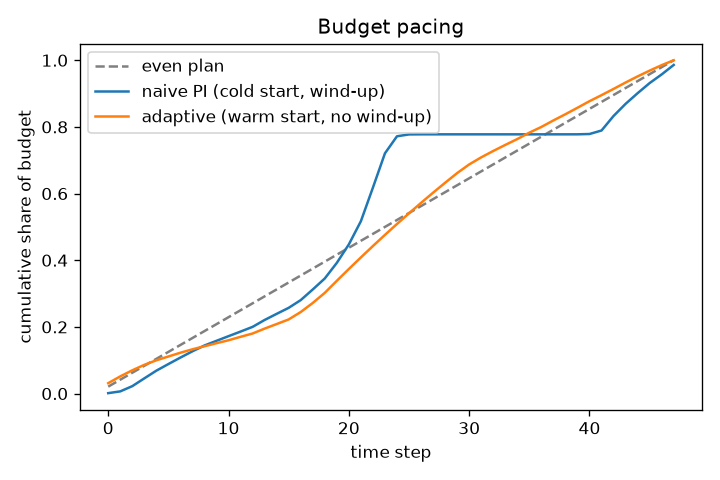
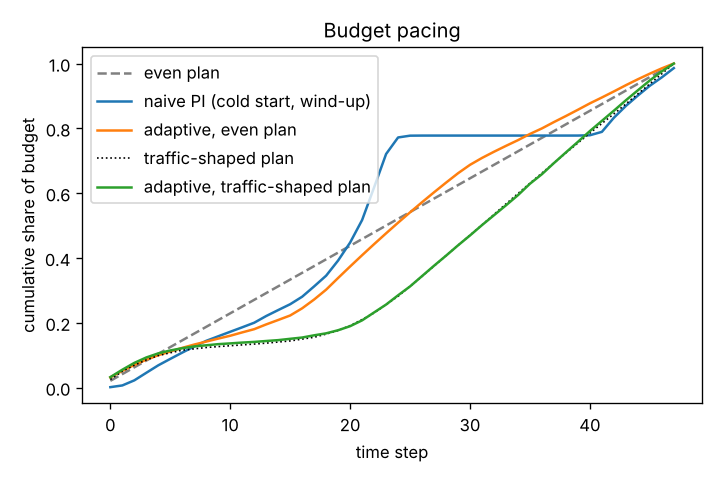
Pacing: traffic-shaped spend plan closes the gap to the hindsight multiplier
adaptive_pacing() takes an optional per-step plan; the target becomes the
remaining budget times the step's share of the remaining plan (an even
plan reproduces the old behaviour exactly). spend_plan() builds the plan
from past data only: the time-of-day profile of logged market cost before
the test window, integrated over each step. `make bid` passes the raw
parquet as --history.

On 2M Attribution rows at a 20% budget, value goes from 431 (even plan,
86.9% of the hindsight constant) to 500 (100.6%). Using the plan the
hindsight constant actually followed gives 100.0%, so the remaining gap
was entirely the plan's shape. The gain holds at 10/30/50% budgets
(98.6-100.3%). Shaping the plan from the validation window alone failed
(49%): on this sample it spans only about six afternoon hours.

Other bidding numbers reproduce unchanged.

Claude-Session: https://claude.ai/code/session_0191hE9CU4T9gEDcPDXiWNcw

diff --git a/src/adsrank/run_bidding.py b/src/adsrank/run_bidding.py
@@ -16,6 +16,10 @@ Experiments:
        naive PI     : cold start (alpha far too low), integral term -> wind-up
        adaptive     : warm start from the validation window, target = remaining budget /
                       remaining steps, capped proportional updates (no wind-up)
+       adaptive_traffic_plan : same, but each step's share of the budget follows the
+                      time-of-day spend profile of the validation window
+       adaptive_hindsight_plan : same, with the plan taken from the test window itself
+                      (a ceiling, not a deployable policy)
 
 usage: python -m adsrank.run_bidding --preds data/preds_test.parquet
 """
@@ -30,7 +34,9 @@ import matplotlib.pyplot as plt  # noqa: E402
 import numpy as np  # noqa: E402
 import pandas as pd  # noqa: E402
 
-from adsrank.bidding import adaptive_pacing, alpha_for_roi, alpha_for_spend, pid_pacing, replay  # noqa: E402
+from adsrank.bidding import (  # noqa: E402
+    _time_steps, adaptive_pacing, alpha_for_roi, alpha_for_spend, pid_pacing, replay, spend_plan, step_edges,
+)
 
 
 def policies(d: pd.DataFrame, seed: int = 0) -> dict[str, np.ndarray]:
@@ -49,6 +55,8 @@ def main() -> None:
     a.add_argument("--preds", default="data/preds_test.parquet")
     a.add_argument("--budget-frac", type=float, default=0.2, help="budget as a fraction of total logged spend")
     a.add_argument("--target-roi", type=float, default=None, help="default: 1.5x the ROI of buying every impression")
+    a.add_argument("--history", default=None,
+                   help="raw Attribution parquet; rows before the test window shape the time-of-day spend plan")
     a.add_argument("--results", default="results")
     a = a.parse_args()
     out = Path(a.results)
@@ -93,7 +101,28 @@ def main() -> None:
         warm = "validation window"
     else:
         alpha0, warm = static["alpha"] * 0.1, "none (preds_valid.parquet missing)"
-    adaptive = adaptive_pacing(ev_cal, cost, attr, cpo, d.timestamp.to_numpy(), budget, alpha0, n_steps=n_steps)
+    ts = d.timestamp.to_numpy()
+    # traffic-shaped plan: time-of-day profile of logged traffic value (market cost) in all data
+    # before the test window. It needs at least a full day of history, which the validation
+    # window alone (a few hours on the 2M-row sample) does not have.
+    plan, plan_source = None, None
+    if a.history and Path(a.history).exists():
+        h = pd.read_parquet(a.history, columns=["timestamp", "cost"])
+        h = h[h.timestamp < ts.min()]
+        if len(h) and h.timestamp.max() - h.timestamp.min() >= 86400:
+            plan = spend_plan(h.timestamp.to_numpy(), h.cost.to_numpy(), step_edges(ts, n_steps))
+            plan_source = f"logged cost by hour of day, {(h.timestamp.max() - h.timestamp.min()) / 86400:.1f} days before test"
+    adaptive = adaptive_pacing(ev_cal, cost, attr, cpo, ts, budget, alpha0, n_steps=n_steps)
+    paced = {"naive_pi": naive, "adaptive": adaptive}
+    if plan is not None:
+        paced["adaptive_traffic_plan"] = adaptive_pacing(ev_cal, cost, attr, cpo, ts, budget, alpha0,
+                                                         n_steps=n_steps, plan=plan)
+    # ceiling: the plan a hindsight constant multiplier would have followed on the test window itself
+    srt = np.sort(ts)
+    hind_spend = np.where(ev_cal * static["alpha"] >= cost, cost, 0.0)[np.argsort(ts, kind="stable")]
+    hind_plan = np.bincount(_time_steps(srt, n_steps), weights=hind_spend, minlength=n_steps)
+    paced["adaptive_hindsight_plan"] = adaptive_pacing(ev_cal, cost, attr, cpo, ts, budget, alpha0,
+                                                       n_steps=n_steps, plan=hind_plan / hind_plan.sum())
 
     even = budget / n_steps
     def pace_summary(p):
@@ -103,11 +132,19 @@ def main() -> None:
                 "idle_steps": int((p.spend < 0.1 * even).sum()),
                 "value_vs_hindsight_static": float(p.value.sum() / static["value"])}
     report["pacing"] = {"warm_start": warm, "alpha0": alpha0, "hindsight_static_alpha": static["alpha"],
-                        "naive_pi": pace_summary(naive), "adaptive": pace_summary(adaptive)}
+                        **{k: pace_summary(p) for k, p in paced.items()}}
+    report["pacing"]["traffic_plan_source"] = plan_source
+    if plan is not None:
+        report["pacing"]["traffic_plan_vs_even_max_ratio"] = float(plan.max() * n_steps)
+        report["pacing"]["traffic_plan_vs_even_min_ratio"] = float(plan.min() * n_steps)
     fig, ax = plt.subplots(figsize=(6, 4))
     ax.plot(np.arange(n_steps), np.arange(1, n_steps + 1) / n_steps, "--", color="grey", label="even plan")
     ax.plot(naive.step, naive.spend.cumsum() / budget, label="naive PI (cold start, wind-up)")
-    ax.plot(adaptive.step, adaptive.spend.cumsum() / budget, label="adaptive (warm start, no wind-up)")
+    ax.plot(adaptive.step, adaptive.spend.cumsum() / budget, label="adaptive, even plan")
+    if "adaptive_traffic_plan" in paced:
+        tp = paced["adaptive_traffic_plan"]
+        ax.plot(np.arange(n_steps), np.cumsum(plan), ":", color="black", lw=1, label="traffic-shaped plan")
+        ax.plot(tp.step, tp.spend.cumsum() / budget, label="adaptive, traffic-shaped plan")
     ax.set(xlabel="time step", ylabel="cumulative share of budget", title="Budget pacing")
     ax.legend()
     fig.tight_layout()
@@ -123,7 +160,7 @@ def main() -> None:
           .reindex(columns=cols).round(4).to_string())
     p = report["pacing"]
     print(f"\n== Budget pacing (ctcvr_cal, {n_steps} steps; warm start: {p['warm_start']}) ==")
-    print(pd.DataFrame({k: p[k] for k in ("naive_pi", "adaptive")}).T.round(3).to_string())
+    print(pd.DataFrame({k: p[k] for k in paced}).T.round(3).to_string())
     print(f"\nsaved {out}/bidding.json, bidding_value_vs_spend.png, bidding_pacing.png")
 
 

diff --git a/src/adsrank/bidding.py b/src/adsrank/bidding.py
@@ -84,9 +84,40 @@ def pid_pacing(ev, cost, attribution, cpo, timestamp, budget: float, n_steps: in
     return pd.DataFrame(rows)
 
 
+def spend_plan(hist_ts, hist_spend, step_edges, period: float = 86400.0, n_bins: int = 24) -> np.ndarray:
+    """Share of the budget to plan for each time step, shaped by the time of day.
+
+    The spend rate per time-of-day bin is estimated from a past window (spend divided by the
+    time that window spent in each bin), then integrated over each future step. Steps that
+    fall in high-value hours get a larger share. Only past data is used, so the plan can be
+    set before the day starts. Returns weights that sum to 1."""
+    hist_ts, hist_spend = np.asarray(hist_ts, np.float64), np.asarray(hist_spend, np.float64)
+    width = period / n_bins
+    bin_of = ((hist_ts % period) // width).astype(int)
+    spend_per_bin = np.bincount(bin_of, weights=hist_spend, minlength=n_bins)
+    grid = np.linspace(hist_ts.min(), hist_ts.max(), 20000)               # time covered per bin
+    seconds_per_bin = np.bincount(((grid % period) // width).astype(int), minlength=n_bins) * (
+        (hist_ts.max() - hist_ts.min()) / len(grid))
+    rate = np.where(seconds_per_bin > 0, spend_per_bin / np.maximum(seconds_per_bin, 1e-12), 0.0)
+    if rate.sum() <= 0:
+        rate = np.ones(n_bins)
+    w = []
+    for lo, hi in zip(step_edges[:-1], step_edges[1:]):
+        g = np.linspace(lo, hi, 200, endpoint=False)
+        w.append(rate[((g % period) // width).astype(int)].mean() * (hi - lo))
+    w = np.asarray(w)
+    return w / w.sum() if w.sum() > 0 else np.full(len(w), 1 / len(w))
+
+
+def step_edges(timestamp, n_steps: int) -> np.ndarray:
+    """Boundaries of the n_steps equal-width time steps used by the pacers."""
+    ts = np.asarray(timestamp, np.float64)
+    return np.linspace(ts.min(), ts.max(), n_steps + 1)
+
+
 def adaptive_pacing(ev, cost, attribution, cpo, timestamp, budget: float, alpha0: float,
                     n_steps: int = 48, kp: float = 0.5, max_change: float = 0.5,
-                    step_cap: float = 1.5) -> pd.DataFrame:
+                    step_cap: float = 1.5, plan=None) -> pd.DataFrame:
     """Budget pacing without integral wind-up.
 
     - warm start: alpha0 comes from the previous period (validation window), not a guess;
@@ -96,14 +127,20 @@ def adaptive_pacing(ev, cost, attribution, cpo, timestamp, budget: float, alpha0
     - proportional update on log(alpha), with the per-step change capped at +-max_change;
     - spend in a step is capped at step_cap x target and at the remaining budget: once the cap
       is reached the bidder stops buying until the next step (throttling), so a traffic burst
-      cannot drain the budget early.
+      cannot drain the budget early;
+    - plan: optional per-step budget shares (e.g. from spend_plan); default is an even plan.
+      The target is the remaining budget times this step's share of the remaining plan.
     """
     order = np.argsort(np.asarray(timestamp), kind="stable")
     ev, cost, attribution, cpo, ts = (np.asarray(x)[order] for x in (ev, cost, attribution, cpo, timestamp))
     step_of = _time_steps(ts, n_steps)
+    w = np.full(n_steps, 1.0 / n_steps) if plan is None else np.asarray(plan, np.float64)
+    if len(w) != n_steps:
+        raise ValueError("plan must have one weight per step")
     alpha, remaining, rows = alpha0, budget, []
     for t in range(n_steps):
-        target = remaining / (n_steps - t)
+        rest = w[t:].sum()
+        target = remaining * w[t] / rest if rest > 0 else 0.0
         m = np.flatnonzero(step_of == t)
         win = m[ev[m] * alpha >= cost[m]]
         # throttle: stop buying once the step cap (or the remaining budget) is reached

diff --git a/tests/test_bidding.py b/tests/test_bidding.py
@@ -82,3 +82,32 @@ def test_adaptive_beats_naive_pi_on_bursty_traffic():
     alpha0 = alpha_for_spend(ev[:5000], cost[:5000], 0.2 * cost[:5000].sum())
     adaptive = adaptive_pacing(ev, cost, attr, cpo, ts, budget, alpha0, n_steps=40)
     assert adaptive.value.sum() > naive.value.sum()
+
+
+def test_spend_plan_follows_time_of_day_and_sums_to_one():
+    from adsrank.bidding import spend_plan
+    day = 86400.0
+    ts = np.arange(0, 3 * day, 60.0)                          # 3 days of history, one row a minute
+    spend = np.where((ts % day) >= day / 2, 3.0, 1.0)         # second half of each day spends 3x
+    edges = np.linspace(3 * day, 4 * day, 5)                  # next day in 4 steps
+    w = spend_plan(ts, spend, edges)
+    assert abs(w.sum() - 1) < 1e-9
+    assert w[2] > 2.5 * w[0] and abs(w[0] - w[1]) < 1e-6      # afternoon steps get ~3x the morning
+
+
+def test_adaptive_pacing_with_plan_tracks_plan_and_even_plan_is_default():
+    from adsrank.bidding import adaptive_pacing
+    rng = np.random.default_rng(0)
+    n = 40000
+    ts = np.sort(rng.uniform(0, 86400, n))
+    cost = rng.exponential(1.0, n)
+    ev = cost * rng.lognormal(0, 0.5, n)
+    attr, cpo = (rng.random(n) < 0.05).astype(float), np.full(n, 10.0)
+    budget = 0.2 * cost.sum()
+    even = adaptive_pacing(ev, cost, attr, cpo, ts, budget, alpha0=0.5, n_steps=8)
+    same = adaptive_pacing(ev, cost, attr, cpo, ts, budget, alpha0=0.5, n_steps=8, plan=np.full(8, 1 / 8))
+    assert np.allclose(even.spend, same.spend)
+    plan = np.array([1, 1, 1, 1, 3, 3, 3, 3], float) / 16
+    shaped = adaptive_pacing(ev, cost, attr, cpo, ts, budget, alpha0=0.5, n_steps=8, plan=plan)
+    assert shaped.spend.sum() <= budget * (1 + 1e-9)
+    assert shaped.spend[4:].sum() > 2 * shaped.spend[:4].sum()   # spends more where the plan says

diff --git a/README.md b/README.md
@@ -22,6 +22,8 @@ On 2M impressions with a held-out, later-in-time test window:
   their errors had been cancelling. Calibrate the quantity you bid on.
 - **Value-based bidding (`cpo x pCTR x pCVR`) buys 43% more conversion value than CTR-only
   bidding at the same budget** in a second-price replay; CTR-only bids halve conversions.
+- **Shaping the daily spend plan by time-of-day traffic adds 16% conversion value** to an
+  adaptive budget pacer (431 to 500) and matches a hindsight-tuned bid multiplier at every budget tried.
 - **Delayed conversions halve the naive CVR** (only 50.5% visible at training time); rescaling by
   the expected visible share restores calibration with no AUC loss, while the classic
   exponential DFM over-corrects (calibration 1.94) on bimodal, heavy-tailed delays.
@@ -256,7 +258,7 @@ Findings:
   The pacing plot shows the failure mode: after a slow start the integral term pushes the
   multiplier up, spend overshoots around steps 20-24, then the multiplier collapses and almost
   nothing is bought for ~15 steps (integral wind-up). Causes: a cold start far from the right
-  multiplier, no anti-windup, and an even spend plan while traffic value varies over the day. Next: warm start from the previous period,
+  multiplier, no anti-windup, and an even spend plan while traffic value varies over the day. The fixes below: warm start from the previous period,
   anti-windup, and a spend plan shaped by expected traffic.
 - **Adaptive pacer (the fix)**: warm start from the validation window, each step's target
   recomputed as remaining budget / remaining steps (a bounded stand-in for the integral term that
@@ -266,13 +268,32 @@ Findings:
   | Pacer (20% budget, 48 steps) | Budget used | Largest step vs even plan | Idle steps | Value | vs hindsight constant |
   |---|---|---|---|---|---|
   | Naive PI | 98.6% | 4.94x | 16 | 325 | 65.5% |
-  | **Adaptive** | **100.0%** | **1.73x** | **0** | **431** | **86.9%** |
+  | Adaptive, even plan | 100.0% | 1.73x | 0 | 431 | 86.9% |
+  | **Adaptive, traffic-shaped plan** | **100.0%** | **1.69x** | **1** | **500** | **100.6%** |
+  | Adaptive, hindsight plan (ceiling) | 100.0% | 1.87x | 0 | 497 | 100.0% |
 
   The adaptive pacer recovers **33% more conversion value** than the naive one with no idle steps.
   The warm start lands close to the right level: the multiplier fitted on the validation window
   (0.0886) is within 4% of the hindsight-optimal one for the test window (0.0924).
-  The remaining 13% gap to the hindsight-tuned constant multiplier comes from the even spend
-  plan: traffic value varies over the day, so a plan shaped by forecast traffic would close it.
+- **Traffic-shaped spend plan (closing the last gap)**: with an even plan the adaptive pacer
+  still trails the hindsight constant by 13%. Giving it the plan that the hindsight constant
+  actually followed closes the gap exactly (100.0%), so the whole gap is the shape of the plan.
+  `spend_plan()` builds a deployable version from past data only: the time-of-day profile of
+  logged traffic value (market cost) in the 2.9 days before the test window, integrated over each
+  step. Night hours get as little as 0.12x the even share and daytime up to 1.56x. That lifts
+  value from 431 to **500 (+16%)**, matching the hindsight constant, and it holds across budgets:
+
+  | Budget (share of total spend) | Naive PI | Adaptive, even plan | Adaptive, traffic-shaped plan | Hindsight plan |
+  |---|---|---|---|---|
+  | 10% | 88.9% | 91.9% | **100.3%** | 100.1% |
+  | 20% | 65.5% | 86.9% | **100.6%** | 100.0% |
+  | 30% | 66.6% | 81.6% | **99.8%** | 99.9% |
+  | 50% | 92.3% | 75.9% | **98.6%** | 99.9% |
+
+  (Value as a share of the hindsight-tuned constant multiplier.) A first attempt shaped the plan
+  from the validation window alone and lost half the value (49%, 37 idle steps): on the 2M-row
+  sample that window covers only about six afternoon hours, so the plan starved every other hour.
+  A time-of-day profile needs at least a full day of history.
 
 Raw numbers: [results/bidding.json](results/bidding.json).
 
@@ -909,7 +930,6 @@ These need GPUs or the full datasets, which a laptop and free CI runners do not 
 - Feed the daily run a moving window of the 30-day data instead of the same 2M rows, with
   Prometheus scraping `k8s/monitoring.yaml` during the canary.
 - Longer user histories (last N clicks) in the query tower, on the full 16.5M rows.
-- A traffic-shaped spend plan for the pacer.
 
 ## References
 
